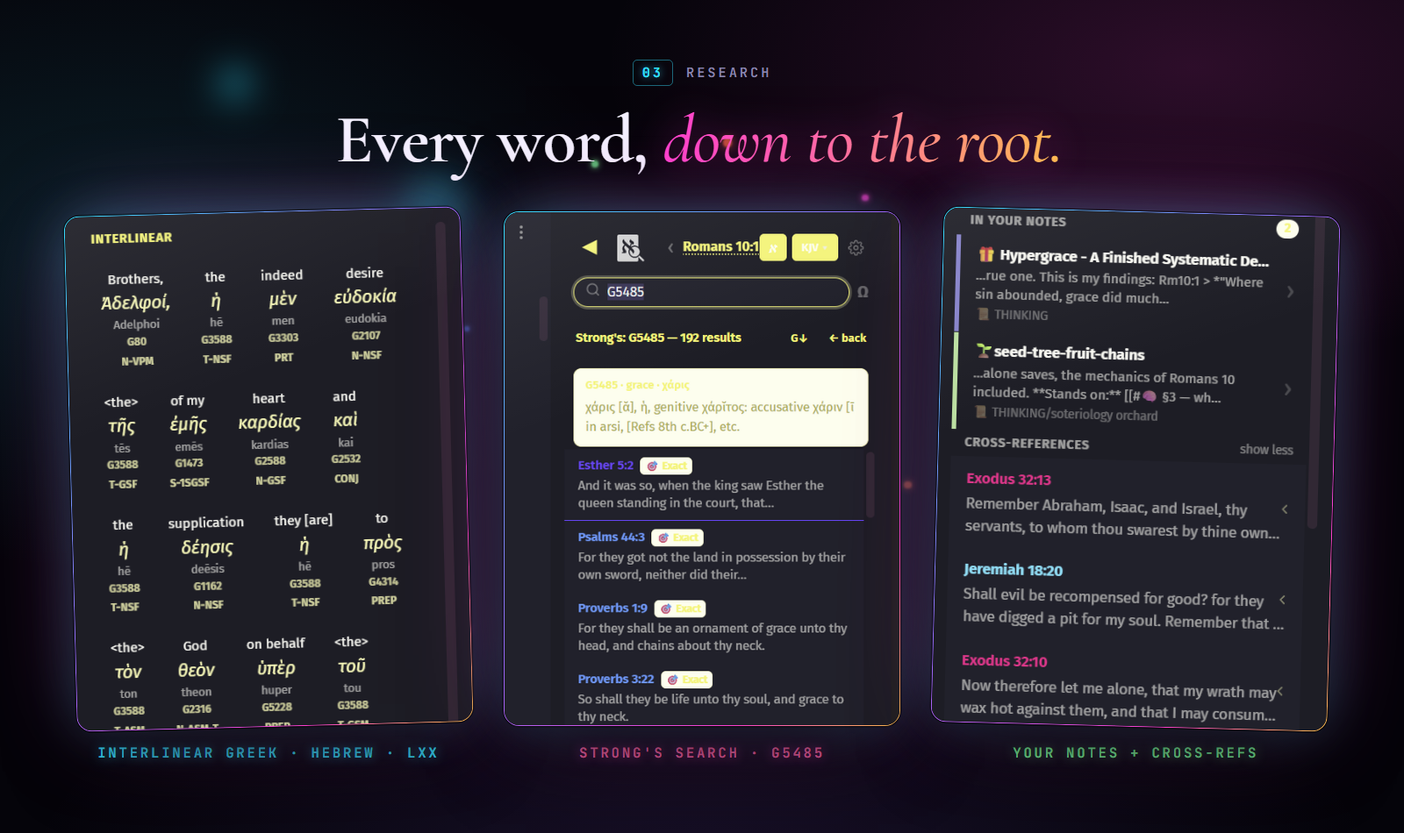
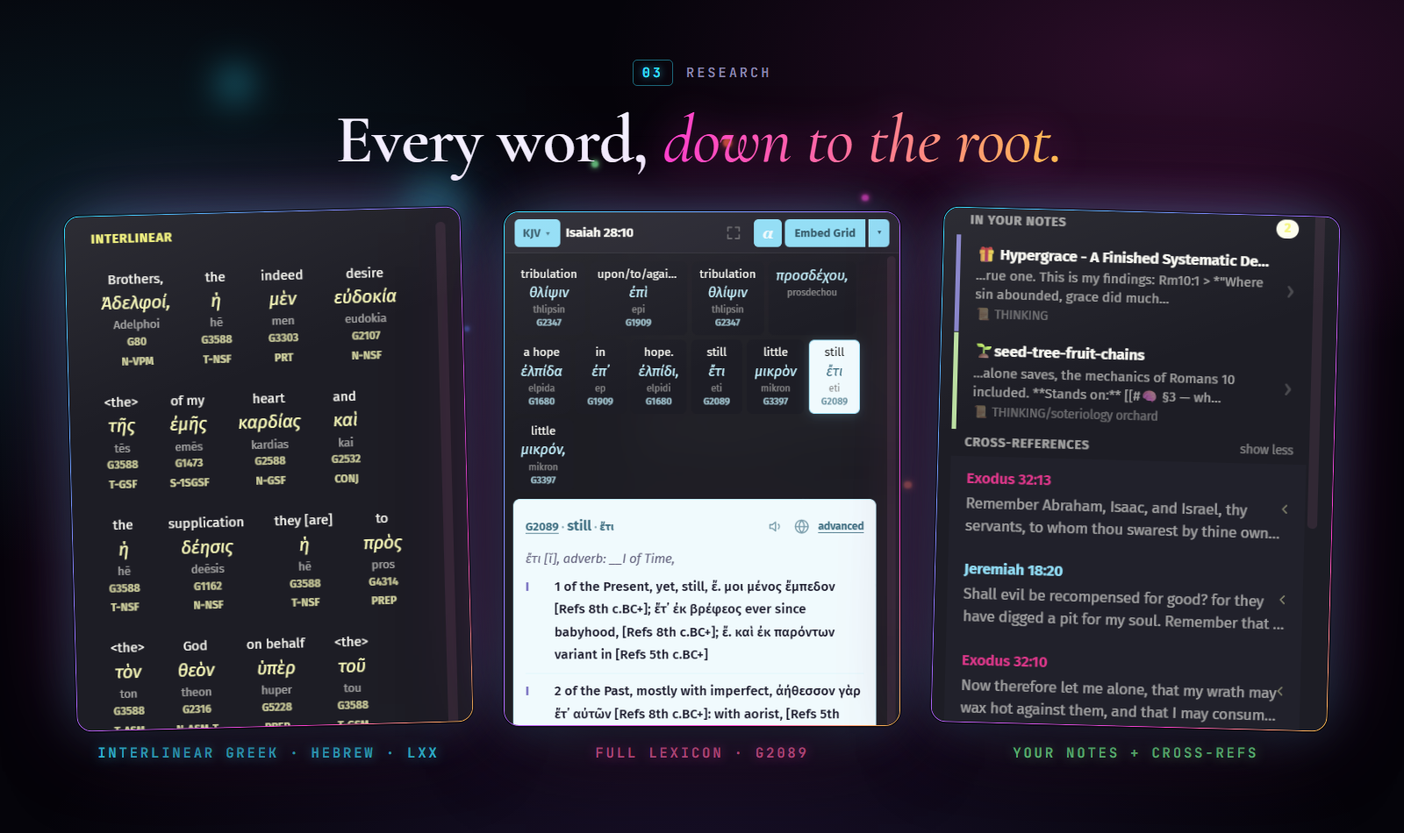
Readable simple Strong's definitions; new interlinear screenshots; walkthrough video
- Simple definitions in the tooltip drawer and reading panel use dark text on the pale card (they were unreadable on Windows dark theme), and clicking a word no longer wipes the morphology box.
- Site and README research plate use the real advanced-lexicon screenshots (John 6:47, Isaiah 28:10) in place of the old pre-contrast Strong's search shot.
- Install section links the ScriptureScribe walkthrough video.

Changed region(s): [[0.3438, 0.2442, 0.6562, 0.9158]]

diff --git a/main.js b/main.js
@@ -29,7 +29,7 @@ var It=Object.defineProperty;var Gs=Object.getOwnPropertyDescriptor;var Fs=Objec
     border-radius:6px; box-shadow:0 4px 18px rgba(0,0,0,0.22);
     font-size:11px; line-height:1.65; color:var(--text-normal);
     font-style:italic;
-  `,document.body.appendChild(e),X1=e;let s=i.getBoundingClientRect(),n=s.left,r=s.bottom+6;n+268>window.innerWidth-8&&(n=window.innerWidth-276),r+76>window.innerHeight-8&&(r=s.top-82),e.style.left=`${Math.max(8,n)}px`,e.style.top=`${Math.max(8,r)}px`}function Xs(){X1?.remove(),X1=null}function O0(i){return i.includes("__")||/^[\u0370-\u03FF\u1F00-\u1FFF]/.test(i.trim())}var Zs=/\b[123]?\s?[A-Za-z]{2,8}\.?\s*\d{1,3}:\d{1,3}(?:-\d{1,3})?(?:[,;]\s*(?:\d+:)?\d+(?:-\d+)?)*\b/g,qs=/\([^)]*(?:MM|VGT|LS|Arist|Plat|Thuc|Hdt|Cremer|Lft|Westc|Tr|Syn|Field|Milligan|LAE|NTD|Deiss|Eutherford|Rutherford|Diod|Polyb|Bl)[^)]*\)/gi,P0=/\b(?:absol\.|in late writers|(?:with|before)\s+(?:accusative|genitive|dative|inf\.|dupl\.)[^;,]*|(?:with)\s+(?:εἰς|ἀπό|παρά|πρός|ὅτι|πῶς|τί|ἵνα|ἐν\s+τ)[^;,]*|of (?:persons?|things?)[,;][^;]*|see M[, .][^;]*|see MM[^;]*)\b/gi;function Ks(i){return i.replace(/\(AS\)|\(ML\)|[†*✝]/g,"").replace(/\[in LXX[^\]]*\]/gi,"").replace(/<BR\s*\/?>/gi," ").replace(/<[^>]+>/g,"").replace(/\s{2,}/g," ").trim()}function Us(i){return Ks(i).replace(/SYN\.:.+$/s,"").replace(/Aramaic (?:equivalent|of|for)[^.]*\.?\s*/is,"").replace(/Also (?:means|named|called)[^.]*\.?\s*/is,"").replace(/§[^\n]*/g,"").replace(/__/g,"").replace(Zs,"").replace(qs,"").replace(/\(cf\.[^)]*\)/gi,"").replace(/\(see [^)]*\)/gi,"").replace(/\s*[,;]\s*,/g,",").replace(/\s{2,}/g," ").trim()}function M1(i){let t=G0(i);return t.length?t.join("; "):i.slice(0,100).replace(/<[^>]+>/g,"").trim()}function z0(i,t){i.innerHTML="";let e=G0(t);if(!e.length){let s=document.createElement("span");s.textContent=t.slice(0,120).replace(/<[^>]+>/g,"").trim(),s.style.cssText=`font-size:11.5px; color:${e1}; line-height:1.65;`,i.appendChild(s);return}for(let s of e){let n=document.createElement("div");n.style.cssText="display:flex; align-items:baseline; gap:7px; padding:2px 0; line-height:1.65;";let r=document.createElement("span");r.textContent="\u2022",r.style.cssText=`color:${Ot}; font-size:11px; flex-shrink:0; opacity:0.7;`,n.appendChild(r);let o=document.createElement("span");o.textContent=s,o.style.cssText=`font-size:11.5px; color:${e1}; flex:1;`,n.appendChild(o),i.appendChild(n)}}function G0(i){let t=Us(i);return O0(i)?Ys(t):Qs(t)}function Ys(i){let t=i.replace(P0,""),e=/\s+(?:[IVX]+\.|[0-9]+\.)\s/.test(t),s=[];if(e){let n=t.split(/\s+(?=[IVX]+\.\s|[0-9]+\.\s)/);for(let r of n){if(!r.trim())continue;let o=r.replace(/^[IVX]+\.\s*|^[0-9]+\.\s*/,"").replace(/\(a\)\s*|\(b\)\s*|\(c\)\s*/g," ").split(/[;]/)[0].replace(/[,;:\s]+$/,"").trim();if(o.length>5&&o.length<110&&s.push(o),s.length>=4)break}}else{let n=t.split(/:\s*(?:absol\.|with acc|before |with dat|Mid\.)/i)[0].split(/[;]/)[0].replace(/[,;:\s]+$/,"").trim();n.length>3&&s.push(n);let r=t.match(/\bMid\.\b[^:]*:([^;.]+)/i);if(r){let o=r[1].replace(P0,"").replace(/[,;:\s]+$/,"").trim();o.length>5&&o!==n&&s.push("(Middle voice) "+o)}}return s}function Qs(i){let t=[],e=/\b(\d)\)\s+([\s\S]+?)(?=\s+\d\)|$)/g,s;for(e.lastIndex=0;(s=e.exec(i))!==null&&t.length<4;){let n=s[2].replace(/\s+\d[a-z]\d*\)\s+[\s\S]+?(?=\s+\d[a-z]?\d*\)|$)/g,"").replace(/\(\s*(?:Qal|Niphal|Piel|Pual|Hiphil|Hophal|Hithpael|Aphel|P'al|Peal|Ithpeel|Ithpaal)\s*\)/gi,"").replace(/\(fig\.\)|\(spec\.\)/gi,"").split(/;/)[0].trim().replace(/[-–,]\s*$/,"").trim();n.length>2&&t.push(n)}return t.length?t:i.split(/;\s+/).slice(0,4).map(n=>n.trim()).filter(n=>n.length>2&&n.length<100)}var R0=/\b([123]?\s?[A-Za-z]{2,8})\.?\s*(\d{1,3}:\d{1,3}(?:-\d{1,3})?)\b/g,$0=/\b([GH]\d{1,4}[a-z]?)\b/g,A0=/\(\s*(Qal|Niphal|Piel|Pual|Hiphil|Hophal|Hithpael|P'al|Aphel|Peal|Shafel|Pael|Ithpeel|Ithpaal)\s*\)/g,H0=/\b(absol\.|intrans\.|trans\.|pass\.|act\.|cl\.|cf\.|q\.v\.|spec\.|fig\.|al\.)\s*/g,B0=/__([IVX]+\.|[0-9]+\.)\s*/g,I0=/__\(([a-z])\)\s*/g,D0=/\s*SYN\.:[\s\S]+$/,V0=/\[in LXX[^\]]*\]/gi;function P1(i,t,e){i.innerHTML="",O0(t)?en(i,t,e):tn(i,t,e)}function en(i,t,e){let s=t.replace(/\(AS\)|\(ML\)|[†*✝]/g,"").replace(/<BR\s*\/?>/gi,`
+  `,document.body.appendChild(e),X1=e;let s=i.getBoundingClientRect(),n=s.left,r=s.bottom+6;n+268>window.innerWidth-8&&(n=window.innerWidth-276),r+76>window.innerHeight-8&&(r=s.top-82),e.style.left=`${Math.max(8,n)}px`,e.style.top=`${Math.max(8,r)}px`}function Xs(){X1?.remove(),X1=null}function O0(i){return i.includes("__")||/^[\u0370-\u03FF\u1F00-\u1FFF]/.test(i.trim())}var Zs=/\b[123]?\s?[A-Za-z]{2,8}\.?\s*\d{1,3}:\d{1,3}(?:-\d{1,3})?(?:[,;]\s*(?:\d+:)?\d+(?:-\d+)?)*\b/g,qs=/\([^)]*(?:MM|VGT|LS|Arist|Plat|Thuc|Hdt|Cremer|Lft|Westc|Tr|Syn|Field|Milligan|LAE|NTD|Deiss|Eutherford|Rutherford|Diod|Polyb|Bl)[^)]*\)/gi,P0=/\b(?:absol\.|in late writers|(?:with|before)\s+(?:accusative|genitive|dative|inf\.|dupl\.)[^;,]*|(?:with)\s+(?:εἰς|ἀπό|παρά|πρός|ὅτι|πῶς|τί|ἵνα|ἐν\s+τ)[^;,]*|of (?:persons?|things?)[,;][^;]*|see M[, .][^;]*|see MM[^;]*)\b/gi;function Ks(i){return i.replace(/\(AS\)|\(ML\)|[†*✝]/g,"").replace(/\[in LXX[^\]]*\]/gi,"").replace(/<BR\s*\/?>/gi," ").replace(/<[^>]+>/g,"").replace(/\s{2,}/g," ").trim()}function Us(i){return Ks(i).replace(/SYN\.:.+$/s,"").replace(/Aramaic (?:equivalent|of|for)[^.]*\.?\s*/is,"").replace(/Also (?:means|named|called)[^.]*\.?\s*/is,"").replace(/§[^\n]*/g,"").replace(/__/g,"").replace(Zs,"").replace(qs,"").replace(/\(cf\.[^)]*\)/gi,"").replace(/\(see [^)]*\)/gi,"").replace(/\s*[,;]\s*,/g,",").replace(/\s{2,}/g," ").trim()}function z0(i){let t=G0(i);return t.length?t.join("; "):i.slice(0,100).replace(/<[^>]+>/g,"").trim()}function M1(i,t){i.innerHTML="";let e=G0(t);if(!e.length){let s=document.createElement("span");s.textContent=t.slice(0,120).replace(/<[^>]+>/g,"").trim(),s.style.cssText=`font-size:11.5px; color:${e1}; line-height:1.65;`,i.appendChild(s);return}for(let s of e){let n=document.createElement("div");n.style.cssText="display:flex; align-items:baseline; gap:7px; padding:2px 0; line-height:1.65;";let r=document.createElement("span");r.textContent="\u2022",r.style.cssText=`color:${Ot}; font-size:11px; flex-shrink:0; opacity:0.7;`,n.appendChild(r);let o=document.createElement("span");o.textContent=s,o.style.cssText=`font-size:11.5px; color:${e1}; flex:1;`,n.appendChild(o),i.appendChild(n)}}function G0(i){let t=Us(i);return O0(i)?Ys(t):Qs(t)}function Ys(i){let t=i.replace(P0,""),e=/\s+(?:[IVX]+\.|[0-9]+\.)\s/.test(t),s=[];if(e){let n=t.split(/\s+(?=[IVX]+\.\s|[0-9]+\.\s)/);for(let r of n){if(!r.trim())continue;let o=r.replace(/^[IVX]+\.\s*|^[0-9]+\.\s*/,"").replace(/\(a\)\s*|\(b\)\s*|\(c\)\s*/g," ").split(/[;]/)[0].replace(/[,;:\s]+$/,"").trim();if(o.length>5&&o.length<110&&s.push(o),s.length>=4)break}}else{let n=t.split(/:\s*(?:absol\.|with acc|before |with dat|Mid\.)/i)[0].split(/[;]/)[0].replace(/[,;:\s]+$/,"").trim();n.length>3&&s.push(n);let r=t.match(/\bMid\.\b[^:]*:([^;.]+)/i);if(r){let o=r[1].replace(P0,"").replace(/[,;:\s]+$/,"").trim();o.length>5&&o!==n&&s.push("(Middle voice) "+o)}}return s}function Qs(i){let t=[],e=/\b(\d)\)\s+([\s\S]+?)(?=\s+\d\)|$)/g,s;for(e.lastIndex=0;(s=e.exec(i))!==null&&t.length<4;){let n=s[2].replace(/\s+\d[a-z]\d*\)\s+[\s\S]+?(?=\s+\d[a-z]?\d*\)|$)/g,"").replace(/\(\s*(?:Qal|Niphal|Piel|Pual|Hiphil|Hophal|Hithpael|Aphel|P'al|Peal|Ithpeel|Ithpaal)\s*\)/gi,"").replace(/\(fig\.\)|\(spec\.\)/gi,"").split(/;/)[0].trim().replace(/[-–,]\s*$/,"").trim();n.length>2&&t.push(n)}return t.length?t:i.split(/;\s+/).slice(0,4).map(n=>n.trim()).filter(n=>n.length>2&&n.length<100)}var R0=/\b([123]?\s?[A-Za-z]{2,8})\.?\s*(\d{1,3}:\d{1,3}(?:-\d{1,3})?)\b/g,$0=/\b([GH]\d{1,4}[a-z]?)\b/g,A0=/\(\s*(Qal|Niphal|Piel|Pual|Hiphil|Hophal|Hithpael|P'al|Aphel|Peal|Shafel|Pael|Ithpeel|Ithpaal)\s*\)/g,H0=/\b(absol\.|intrans\.|trans\.|pass\.|act\.|cl\.|cf\.|q\.v\.|spec\.|fig\.|al\.)\s*/g,B0=/__([IVX]+\.|[0-9]+\.)\s*/g,I0=/__\(([a-z])\)\s*/g,D0=/\s*SYN\.:[\s\S]+$/,V0=/\[in LXX[^\]]*\]/gi;function P1(i,t,e){i.innerHTML="",O0(t)?en(i,t,e):tn(i,t,e)}function en(i,t,e){let s=t.replace(/\(AS\)|\(ML\)|[†*✝]/g,"").replace(/<BR\s*\/?>/gi,`
 `).replace(/<[^>]+>/g,"").trim(),n=V0.exec(s);if(n){let c=document.createElement("div");c.textContent=n[0].replace(/^\[|\]$/g,"").trim(),c.style.cssText=`
       font-size:9.5px; color:${w1}; font-style:italic;
       margin-bottom:6px; opacity:0.8; line-height:1.4;
@@ -255,11 +255,11 @@ ${f}`,g)}else{let h=i.getLine(l.line),u=h.slice(0,l.ch).trim().length===0,L=h.sl
               text-decoration:underline; text-underline-offset:2px;
             ">simple</button>
           </div>
-          <div class="ss-sbdy-simple" style="min-height:8px;"></div>
+          <div class="ss-sbdy-simple" style="min-height:8px; color:#1a1a2e;"></div>
           <div class="ss-sbdy-advanced" style="display:none;"></div>
         </div>
       </div>
-    `,t}async show(t,e,s,n,r){let o=t;if(t=_t(t),this.cancelHide(),this.currentRef=t,this._lastEditor=n,this.activeTooltipCard=null,B1(),r!=null&&!isNaN(r)?ft(r):ft(n.posToOffset(n.getCursor())),this.updatePaletteForRef(t),this.applyPaletteToDOM(),this.cardModeOn){this.el.style.display="none",await this.showAsCard(t);return}this.resetToVersePanel(),this.updateIntBtn(),this.closeDropdowns(),this.position(e,s),this.el.style.display="flex";let a=this.q(".ss-ref-lbl"),l=this.q(".ss-text"),c=this.q(".ss-src"),d=this.q(".ss-offline"),h=this.q(".ss-ver-label");a.textContent=T(t),l.textContent="Loading\u2026",c.textContent="",d.style.display="none";let u=await U(t,this.settings);this.currentRef===t&&(Ne(l,u.formattedText??u.text),h.textContent=u.version,c.textContent=Ae(u),this.wireVersion(t,n,h),this.wireEmbed(o,n),this.wireInterlinear(t),await mt(),this.currentRef===t&&(this.renderCrossRefChips(t,n),this.interlinearState!=="off"&&this.openInterlinear(t)))}async showAsCard(t,e=!1){let s=_t(t),n=await U(s,this.settings);this.currentRef!==t||!this.card||await this.card.show({key:T(s),reference:T(s),text:n.text,formattedText:n.formattedText,lazyContext:this.cardContext?()=>this.cardContext(t,n.text,this._lastEditor):void 0,version:n.version,book:t.book,testament:de.has(t.book)?"ot":"nt",palette:{base:this.P,light:this.PL,mid:this.PM,dark:this.PD}},e)}getRecordingEditor(){return this._lastEditor}async showRecordingRef(t,e){this.cancelHide(),this.currentRef=t,this._lastEditor=e,await this.showAsCard(t,!0)}async setCardMode(t,e=!1){let s=this.currentRef;this.settings.display.cardMode=t,await this.saveSettings(),t?this.card?.warm():this.card?.hide(!0),e&&(this.hide(),t&&s&&(this.currentRef=s,await this.showAsCard(s),this.scheduleHide(2600)))}async showStrongs(t,e,s,n,r){this.cancelHide(),this.currentRef=null,this._lastEditor=n,this.activeTooltipCard=null,B1(),ft(n.posToOffset(n.getCursor()));let o=/^[Gg]/.test(t),a=o?"#5c4dc4":"#2a7a4a",l=o?"#eeedfe":"#ecf6ef",c=o?"#afa9ec":"#9ecaa7",d=o?"#3c3489":"#1b5e20";this.PX=d,this.PV="#ffffff",this.P=a,this.PL=l,this.PM=c,this.PD=d,E1(a,l,c,d,d),this.applyPaletteToDOM(),this.resetToVersePanel(),this.q(".ss-ref-lbl").textContent=t,this.q(".ss-text").textContent="Finding definition...",this.q(".ss-int-panel").style.display="flex",this.q(".ss-verse-panel").style.display="none",this.q(".ss-grid").style.display="none",this.q(".ss-int-btn").style.display="none",this.position(e,s),this.el.style.display="flex";let h=await d1(t);if(this.el.style.display==="none")return;let u=this.q(".ss-sdef");if(u.style.display="block",u.innerHTML="",h){let L={onStrongsNum:E=>this.showStrongs(E,e,s,n),onVerseRef:E=>{let b=$(E);b.length&&this.show(b[0],e,s,n)},getVerseText:E=>Me(E)},p=u.createDiv({cls:"ss-sdef-hdr"});p.style.cssText="display:flex; align-items:center; gap:4px; margin-bottom:6px;";let f=p.createDiv({cls:"ss-shdr",text:`${h.number} \xB7 ${h.transliteration} \xB7 ${h.phonetic}`});f.style.cssText=`flex:1; min-width:0; font-size:10px; color:${a}; font-weight:700;`,p.appendChild(S1(h.number,h.original,h.transliteration)),p.appendChild(T1(h.number));let g=p.createEl("button",{cls:"ss-def-toggle",text:ae()?"technical":"simple"});g.style.cssText=`background:none; border:none; cursor:pointer; outline:none; box-shadow:none; font-size:9px; font-weight:700; color:${a}; padding:0; line-height:1; flex-shrink:0; text-decoration:underline; text-underline-offset:2px;`,g.onclick=()=>{this.toggleDefMode(),this.showStrongs(t,e,s,n)};let m=u.createDiv({cls:"ss-sbdy-simple"});m.textContent=M1(h.definition);let C=u.createDiv({cls:"ss-sbdy-advanced"});if(C.style.display=ae()?"block":"none",P1(C,h.definition,L),m.style.display=ae()?"none":"block",r&&this.settings.morphology.enabled){let E=c1(r);if(E){let b=u.createDiv({cls:"ss-morph-wrap"});b.style.cssText=`margin:10px 0; padding:10px; background:rgba(255,255,255,.6); border-radius:6px; border:1px solid ${this.PM}66; position:relative; overflow:hidden;`;let P=b.createDiv({text:E.techLine});P.style.cssText=`font-size:10px; font-weight:700; color:${this.PX}; margin-bottom:4px; font-variant:all-small-caps;`;let v=b.createDiv({text:E.plainLine});if(v.style.cssText="font-size:11px; color:#2a2838; line-height:1.4; font-style:italic;",E.note&&this.settings.morphology.showTeachingNotes){let x=b.createDiv();x.style.cssText=`margin-top:8px; padding-top:8px; border-top:1px dashed ${this.PM}44; font-size:10.5px; color:#3d3a4f; line-height:1.4;`,x.innerHTML=`<span style="color:${this.PX}; font-weight:700; margin-right:4px;">\u{1F4A1}</span> ${E.note}`}}}this.q(".ss-text").style.display="none"}else this.q(".ss-text").textContent="Could not find a definition for this record."}position(t,e){let r=window.innerWidth,o=window.innerHeight;if(r<600){let d=Math.min(340,r-20);this.el.style.width=`${d}px`,this.el.style.left=`${Math.round((r-d)/2)}px`,this.el.style.top=`${Math.round(o*.18)}px`,this.el.style.bottom="auto",this.el.style.maxHeight=`${o-Math.round(o*.18)-10}px`;return}this.el.style.width=`${340}px`;let a=t+14;a+340>r-10&&(a=t-340-14),a=Math.max(10,Math.min(a,r-340-10));let l=e+22,c=o-l-10;c<320&&e>340&&(l=e-330,c=320),l=Math.max(10,l),c=o-l-10,this.el.style.left=`${a}px`,this.el.style.top=`${l}px`,this.el.style.bottom="auto",this.el.style.maxHeight=`${c}px`}wireInterlinear(t){let e=this.q(".ss-int-btn");e.onclick=s=>{s.stopPropagation(),this.isOT?this.interlinearState==="off"?this.interlinearState="MT":this.interlinearState==="MT"?this.interlinearState="LXX":this.interlinearState="off":this.interlinearState==="off"?this.interlinearState="LXX":this.interlinearState="off",this.interlinearState==="off"?(B1(),this.resetToVersePanel(),this.updateIntBtn(),this.syncEmbedBtnLabel()):(this.updateIntBtn(),this.syncEmbedBtnLabel(),this.openInterlinear(t))}}updateIntBtn(){let t=this.q(".ss-int-btn");t&&(this.currentRef&&this.interlinearState==="MT"&&(t.title=`Hebrew address: ${T(st(this.currentRef))}`),this.interlinearState!=="off"?(t.textContent=this.interlinearState==="MT"?"\u05D0":"\u03B1",t.style.background=this.P,t.style.color=this.PL,t.style.borderColor=this.P):(t.textContent=this.isOT?"\u05D0":"\u03B1",t.style.background="transparent",t.style.color=this.P,t.style.borderColor=this.PM))}async openInterlinear(t){let e=this.q(".ss-verse-panel"),s=this.q(".ss-int-panel"),n=this.q(".ss-grid"),r=this.q(".ss-sdef");e.style.display="none",s.style.display="flex",r.style.display="none",n.innerHTML='<div style="padding:14px;font-size:12px;color:var(--text-muted);width:100%;text-align:center;">Loading\u2026</div>';let o=this.interlinearState==="MT"?"hebrew":"greek",a=this.interlinearState==="LXX"?"LXX":this.settings.primaryTranslation,l=await ce(t,o==="greek"?"greek":"hebrew",a);if(!(this.currentRef!==t||this.interlinearState==="off")){if(n.innerHTML="",!l.length){B1(),n.innerHTML=`<div style="padding:14px;font-size:12px;color:var(--text-muted);width:100%;text-align:center;">
+    `,t}async show(t,e,s,n,r){let o=t;if(t=_t(t),this.cancelHide(),this.currentRef=t,this._lastEditor=n,this.activeTooltipCard=null,B1(),r!=null&&!isNaN(r)?ft(r):ft(n.posToOffset(n.getCursor())),this.updatePaletteForRef(t),this.applyPaletteToDOM(),this.cardModeOn){this.el.style.display="none",await this.showAsCard(t);return}this.resetToVersePanel(),this.updateIntBtn(),this.closeDropdowns(),this.position(e,s),this.el.style.display="flex";let a=this.q(".ss-ref-lbl"),l=this.q(".ss-text"),c=this.q(".ss-src"),d=this.q(".ss-offline"),h=this.q(".ss-ver-label");a.textContent=T(t),l.textContent="Loading\u2026",c.textContent="",d.style.display="none";let u=await U(t,this.settings);this.currentRef===t&&(Ne(l,u.formattedText??u.text),h.textContent=u.version,c.textContent=Ae(u),this.wireVersion(t,n,h),this.wireEmbed(o,n),this.wireInterlinear(t),await mt(),this.currentRef===t&&(this.renderCrossRefChips(t,n),this.interlinearState!=="off"&&this.openInterlinear(t)))}async showAsCard(t,e=!1){let s=_t(t),n=await U(s,this.settings);this.currentRef!==t||!this.card||await this.card.show({key:T(s),reference:T(s),text:n.text,formattedText:n.formattedText,lazyContext:this.cardContext?()=>this.cardContext(t,n.text,this._lastEditor):void 0,version:n.version,book:t.book,testament:de.has(t.book)?"ot":"nt",palette:{base:this.P,light:this.PL,mid:this.PM,dark:this.PD}},e)}getRecordingEditor(){return this._lastEditor}async showRecordingRef(t,e){this.cancelHide(),this.currentRef=t,this._lastEditor=e,await this.showAsCard(t,!0)}async setCardMode(t,e=!1){let s=this.currentRef;this.settings.display.cardMode=t,await this.saveSettings(),t?this.card?.warm():this.card?.hide(!0),e&&(this.hide(),t&&s&&(this.currentRef=s,await this.showAsCard(s),this.scheduleHide(2600)))}async showStrongs(t,e,s,n,r){this.cancelHide(),this.currentRef=null,this._lastEditor=n,this.activeTooltipCard=null,B1(),ft(n.posToOffset(n.getCursor()));let o=/^[Gg]/.test(t),a=o?"#5c4dc4":"#2a7a4a",l=o?"#eeedfe":"#ecf6ef",c=o?"#afa9ec":"#9ecaa7",d=o?"#3c3489":"#1b5e20";this.PX=d,this.PV="#ffffff",this.P=a,this.PL=l,this.PM=c,this.PD=d,E1(a,l,c,d,d),this.applyPaletteToDOM(),this.resetToVersePanel(),this.q(".ss-ref-lbl").textContent=t,this.q(".ss-text").textContent="Finding definition...",this.q(".ss-int-panel").style.display="flex",this.q(".ss-verse-panel").style.display="none",this.q(".ss-grid").style.display="none",this.q(".ss-int-btn").style.display="none",this.position(e,s),this.el.style.display="flex";let h=await d1(t);if(this.el.style.display==="none")return;let u=this.q(".ss-sdef");if(u.style.display="block",u.innerHTML="",h){let L={onStrongsNum:E=>this.showStrongs(E,e,s,n),onVerseRef:E=>{let b=$(E);b.length&&this.show(b[0],e,s,n)},getVerseText:E=>Me(E)},p=u.createDiv({cls:"ss-sdef-hdr"});p.style.cssText="display:flex; align-items:center; gap:4px; margin-bottom:6px;";let f=p.createDiv({cls:"ss-shdr",text:`${h.number} \xB7 ${h.transliteration} \xB7 ${h.phonetic}`});f.style.cssText=`flex:1; min-width:0; font-size:10px; color:${a}; font-weight:700;`,p.appendChild(S1(h.number,h.original,h.transliteration)),p.appendChild(T1(h.number));let g=p.createEl("button",{cls:"ss-def-toggle",text:ae()?"technical":"simple"});g.style.cssText=`background:none; border:none; cursor:pointer; outline:none; box-shadow:none; font-size:9px; font-weight:700; color:${a}; padding:0; line-height:1; flex-shrink:0; text-decoration:underline; text-underline-offset:2px;`,g.onclick=()=>{this.toggleDefMode(),this.showStrongs(t,e,s,n)};let m=u.createDiv({cls:"ss-sbdy-simple"});M1(m,h.definition);let C=u.createDiv({cls:"ss-sbdy-advanced"});if(C.style.display=ae()?"block":"none",P1(C,h.definition,L),m.style.display=ae()?"none":"block",r&&this.settings.morphology.enabled){let E=c1(r);if(E){let b=u.createDiv({cls:"ss-morph-wrap"});b.style.cssText=`margin:10px 0; padding:10px; background:rgba(255,255,255,.6); border-radius:6px; border:1px solid ${this.PM}66; position:relative; overflow:hidden;`;let P=b.createDiv({text:E.techLine});P.style.cssText=`font-size:10px; font-weight:700; color:${this.PX}; margin-bottom:4px; font-variant:all-small-caps;`;let v=b.createDiv({text:E.plainLine});if(v.style.cssText="font-size:11px; color:#2a2838; line-height:1.4; font-style:italic;",E.note&&this.settings.morphology.showTeachingNotes){let x=b.createDiv();x.style.cssText=`margin-top:8px; padding-top:8px; border-top:1px dashed ${this.PM}44; font-size:10.5px; color:#3d3a4f; line-height:1.4;`,x.innerHTML=`<span style="color:${this.PX}; font-weight:700; margin-right:4px;">\u{1F4A1}</span> ${E.note}`}}}this.q(".ss-text").style.display="none"}else this.q(".ss-text").textContent="Could not find a definition for this record."}position(t,e){let r=window.innerWidth,o=window.innerHeight;if(r<600){let d=Math.min(340,r-20);this.el.style.width=`${d}px`,this.el.style.left=`${Math.round((r-d)/2)}px`,this.el.style.top=`${Math.round(o*.18)}px`,this.el.style.bottom="auto",this.el.style.maxHeight=`${o-Math.round(o*.18)-10}px`;return}this.el.style.width=`${340}px`;let a=t+14;a+340>r-10&&(a=t-340-14),a=Math.max(10,Math.min(a,r-340-10));let l=e+22,c=o-l-10;c<320&&e>340&&(l=e-330,c=320),l=Math.max(10,l),c=o-l-10,this.el.style.left=`${a}px`,this.el.style.top=`${l}px`,this.el.style.bottom="auto",this.el.style.maxHeight=`${c}px`}wireInterlinear(t){let e=this.q(".ss-int-btn");e.onclick=s=>{s.stopPropagation(),this.isOT?this.interlinearState==="off"?this.interlinearState="MT":this.interlinearState==="MT"?this.interlinearState="LXX":this.interlinearState="off":this.interlinearState==="off"?this.interlinearState="LXX":this.interlinearState="off",this.interlinearState==="off"?(B1(),this.resetToVersePanel(),this.updateIntBtn(),this.syncEmbedBtnLabel()):(this.updateIntBtn(),this.syncEmbedBtnLabel(),this.openInterlinear(t))}}updateIntBtn(){let t=this.q(".ss-int-btn");t&&(this.currentRef&&this.interlinearState==="MT"&&(t.title=`Hebrew address: ${T(st(this.currentRef))}`),this.interlinearState!=="off"?(t.textContent=this.interlinearState==="MT"?"\u05D0":"\u03B1",t.style.background=this.P,t.style.color=this.PL,t.style.borderColor=this.P):(t.textContent=this.isOT?"\u05D0":"\u03B1",t.style.background="transparent",t.style.color=this.P,t.style.borderColor=this.PM))}async openInterlinear(t){let e=this.q(".ss-verse-panel"),s=this.q(".ss-int-panel"),n=this.q(".ss-grid"),r=this.q(".ss-sdef");e.style.display="none",s.style.display="flex",r.style.display="none",n.innerHTML='<div style="padding:14px;font-size:12px;color:var(--text-muted);width:100%;text-align:center;">Loading\u2026</div>';let o=this.interlinearState==="MT"?"hebrew":"greek",a=this.interlinearState==="LXX"?"LXX":this.settings.primaryTranslation,l=await ce(t,o==="greek"?"greek":"hebrew",a);if(!(this.currentRef!==t||this.interlinearState==="off")){if(n.innerHTML="",!l.length){B1(),n.innerHTML=`<div style="padding:14px;font-size:12px;color:var(--text-muted);width:100%;text-align:center;">
         No interlinear data for this verse.<br>
         <span style="font-size:10px;opacity:.7;">Requires internet connection.</span>
       </div>`;return}A5(T(t),l);for(let c of l){if(!c.original||c.original==="\u2014")continue;let d=this.buildTooltipCard(c,r);n.appendChild(d)}}}buildTooltipCard(t,e){let s=t.language==="hebrew",n=document.createElement("div");n.style.cssText=`
@@ -294,7 +294,7 @@ ${f}`,g)}else{let h=i.getLine(l.line),u=h.slice(0,l.ch).trim().length===0,L=h.sl
             40% { transform:scale(0.95); }
             100%{ transform:scale(1); }
           }
-        `,document.head.appendChild(l)}if(this.activeTooltipCard===n&&e.style.display!=="none"){this.activeTooltipCard=null,n.style.animation="none",n.offsetWidth,n.style.animation="ss-tc-deselect 0.24s cubic-bezier(0.34,1.56,0.64,1) forwards",this.resetTooltipCard(n),e.style.display="none";return}if(this.activeTooltipCard&&this.activeTooltipCard!==n){let l=this.activeTooltipCard;l.style.animation="none",l.offsetWidth,l.style.animation="ss-tc-deselect 0.22s cubic-bezier(0.34,1.56,0.64,1) forwards",this.resetTooltipCard(l)}this.activeTooltipCard=n,n.style.animation="none",n.offsetWidth,n.style.animation="ss-tc-select 0.38s cubic-bezier(0.34,1.56,0.64,1) forwards",this.selectTooltipCard(n),this.showStrongsPopup(t.strongsNum,t.morph)}}),n}resetTooltipCard(t){t.style.borderColor="var(--background-modifier-border)",t.style.background="var(--background-secondary)",t.style.boxShadow="none",t.querySelector(".ss-tc-eng")?.style.setProperty("color","var(--text-normal)"),t.querySelector(".ss-tc-orig")?.style.setProperty("color",this.PM),t.querySelector(".ss-tc-translit")?.style.setProperty("color","var(--text-muted)"),t.querySelector(".ss-tc-snum")?.style.setProperty("color",this.PM)}selectTooltipCard(t){t.style.borderColor=this.P,t.style.background=this.PL,t.style.boxShadow=`0 2px 10px ${this.P}33`,t.querySelector(".ss-tc-eng")?.style.setProperty("color","#1a1a1a"),t.querySelector(".ss-tc-orig")?.style.setProperty("color",this.PX),t.querySelector(".ss-tc-translit")?.style.setProperty("color","#666"),t.querySelector(".ss-tc-snum")?.style.setProperty("color",this.PX),t.querySelector(".ss-tc-morph")?.style.setProperty("color",this.PX)}async showStrongsPopup(t,e){let s=this.q(".ss-sdef"),n=this.q(".ss-shdr"),r=this.q(".ss-speaker-wrap"),o=this.q(".ss-sbdy-simple"),a=this.q(".ss-sbdy-advanced"),l=this.q(".ss-def-toggle");s.style.display="block",n.textContent=`${t} \xB7 loading\u2026`,o.innerHTML="",a.innerHTML="",r&&(r.innerHTML="");let c={onVerseRef:h=>{let u=h.replace(/^([123]?[A-Za-z]+)\./,"$1 "),L=$(u);if(L.length){let p=this.app.workspace.getLeavesOfType("scripture-scribe-panel");if(p.length>0){let f=p[0].view;f.pendingStrongsHighlight=t,f.setRef(L[0],this._lastEditor),this.app.workspace.revealLeaf(p[0]),this.hide()}else{let f=this.el.getBoundingClientRect();this.show(L[0],f.left,f.top,this._lastEditor)}}},onStrongsNum:h=>{let u=this.app.workspace.getLeavesOfType("scripture-scribe-panel");if(u.length>0){let L=u[0].view;L.searchInput.value=h,L.runSearch(),this.app.workspace.revealLeaf(u[0]),this.hide()}else this.showStrongsPopup(h)},getVerseText:h=>{let u=h.replace(/^([123]?[A-Za-z]+)\./,"$1 "),L=$(u);if(!L.length)return null;let p=`${L[0].book} ${L[0].chapter}:${L[0].verseStart}`;return Me(p)||null}},d=await d1(t);if(d){let h=d.phonetic?` /${d.phonetic}/`:"";if(n.innerHTML=`<span class="ss-snum-link" style="cursor:pointer;text-decoration:underline;text-underline-offset:2px;" title="Search ${d.number}">${d.number}</span> <span style="opacity:0.6;">\xB7</span> <span style="font-size:12px;">${d.original}</span> <span style="opacity:0.6;">\xB7</span> ${d.transliteration+h}`,e&&this.settings.morphology.enabled){let L=c1(e);if(L){let p=o.createDiv({cls:"ss-morph-wrap"});p.style.cssText=`margin:10px 0; padding:10px; background:rgba(255,255,255,.6); border-radius:6px; border:1px solid ${this.PM}66; position:relative; overflow:hidden;`;let f=p.createDiv({text:L.techLine});f.style.cssText=`font-size:10px; font-weight:700; color:${this.PX}; margin-bottom:4px; font-variant:all-small-caps;`;let g=p.createDiv({text:L.plainLine});if(g.style.cssText="font-size:11px; color:#2a2838; line-height:1.4; font-style:italic;",L.note&&this.settings.morphology.showTeachingNotes){let m=p.createDiv();m.style.cssText=`margin-top:8px; padding-top:8px; border-top:1px dashed ${this.PM}44; font-size:10.5px; color:#3d3a4f; line-height:1.4;`,m.innerHTML=`<span style="color:${this.PX}; font-weight:700; margin-right:4px;">\u{1F4A1}</span> ${L.note}`}}}let u=n.querySelector(".ss-snum-link");u&&u.addEventListener("click",L=>{L.stopPropagation();let p=this.app.workspace.getLeavesOfType("scripture-scribe-panel");if(p.length>0){let f=p[0].view;f.searchInput.value=d.number,f.runSearch(),this.app.workspace.revealLeaf(p[0]),this.hide()}}),r&&(r.appendChild(S1(d.number,d.original,d.transliteration)),r.appendChild(T1(d.number))),o.textContent=M1(d.definition),a.innerHTML="",P1(a,d.definition,c)}else n.textContent=t,o.textContent="Definition unavailable \u2014 check internet connection.";this.applyDefMode(o,a,l),l.onclick=h=>{h.stopPropagation(),this.toggleDefMode(),this.applyDefMode(o,a,l)}}toggleDefMode(){this.settings.morphology.uiMode=q1()?"advanced":"simple",this.saveSettings()}applyDefMode(t,e,s){ae()?(t.style.display="none",e.style.display="block",s.textContent="advanced"):(t.style.display="block",e.style.display="none",s.textContent="simple")}resetToVersePanel(){let t=this.q(".ss-verse-panel"),e=this.q(".ss-int-panel");t&&(t.style.display="flex"),e&&(e.style.display="none")}renderCrossRefChips(t,e){let s=this.q(".ss-xref");if(s.innerHTML="",s.style.display="none",!Ct())return;let n=u1(t);if(!n.length)return;let r=n.slice(0,3);s.style.display="flex";for(let o of r){let a=document.createElement("span");a.textContent=o;let l=ke(o);a.style.cssText=`
+        `,document.head.appendChild(l)}if(this.activeTooltipCard===n&&e.style.display!=="none"){this.activeTooltipCard=null,n.style.animation="none",n.offsetWidth,n.style.animation="ss-tc-deselect 0.24s cubic-bezier(0.34,1.56,0.64,1) forwards",this.resetTooltipCard(n),e.style.display="none";return}if(this.activeTooltipCard&&this.activeTooltipCard!==n){let l=this.activeTooltipCard;l.style.animation="none",l.offsetWidth,l.style.animation="ss-tc-deselect 0.22s cubic-bezier(0.34,1.56,0.64,1) forwards",this.resetTooltipCard(l)}this.activeTooltipCard=n,n.style.animation="none",n.offsetWidth,n.style.animation="ss-tc-select 0.38s cubic-bezier(0.34,1.56,0.64,1) forwards",this.selectTooltipCard(n),this.showStrongsPopup(t.strongsNum,t.morph)}}),n}resetTooltipCard(t){t.style.borderColor="var(--background-modifier-border)",t.style.background="var(--background-secondary)",t.style.boxShadow="none",t.querySelector(".ss-tc-eng")?.style.setProperty("color","var(--text-normal)"),t.querySelector(".ss-tc-orig")?.style.setProperty("color",this.PM),t.querySelector(".ss-tc-translit")?.style.setProperty("color","var(--text-muted)"),t.querySelector(".ss-tc-snum")?.style.setProperty("color",this.PM)}selectTooltipCard(t){t.style.borderColor=this.P,t.style.background=this.PL,t.style.boxShadow=`0 2px 10px ${this.P}33`,t.querySelector(".ss-tc-eng")?.style.setProperty("color","#1a1a1a"),t.querySelector(".ss-tc-orig")?.style.setProperty("color",this.PX),t.querySelector(".ss-tc-translit")?.style.setProperty("color","#666"),t.querySelector(".ss-tc-snum")?.style.setProperty("color",this.PX),t.querySelector(".ss-tc-morph")?.style.setProperty("color",this.PX)}async showStrongsPopup(t,e){let s=this.q(".ss-sdef"),n=this.q(".ss-shdr"),r=this.q(".ss-speaker-wrap"),o=this.q(".ss-sbdy-simple"),a=this.q(".ss-sbdy-advanced"),l=this.q(".ss-def-toggle");s.style.display="block",n.textContent=`${t} \xB7 loading\u2026`,o.innerHTML="",a.innerHTML="",r&&(r.innerHTML="");let c={onVerseRef:h=>{let u=h.replace(/^([123]?[A-Za-z]+)\./,"$1 "),L=$(u);if(L.length){let p=this.app.workspace.getLeavesOfType("scripture-scribe-panel");if(p.length>0){let f=p[0].view;f.pendingStrongsHighlight=t,f.setRef(L[0],this._lastEditor),this.app.workspace.revealLeaf(p[0]),this.hide()}else{let f=this.el.getBoundingClientRect();this.show(L[0],f.left,f.top,this._lastEditor)}}},onStrongsNum:h=>{let u=this.app.workspace.getLeavesOfType("scripture-scribe-panel");if(u.length>0){let L=u[0].view;L.searchInput.value=h,L.runSearch(),this.app.workspace.revealLeaf(u[0]),this.hide()}else this.showStrongsPopup(h)},getVerseText:h=>{let u=h.replace(/^([123]?[A-Za-z]+)\./,"$1 "),L=$(u);if(!L.length)return null;let p=`${L[0].book} ${L[0].chapter}:${L[0].verseStart}`;return Me(p)||null}},d=await d1(t);if(d){let h=d.phonetic?` /${d.phonetic}/`:"";if(n.innerHTML=`<span class="ss-snum-link" style="cursor:pointer;text-decoration:underline;text-underline-offset:2px;" title="Search ${d.number}">${d.number}</span> <span style="opacity:0.6;">\xB7</span> <span style="font-size:12px;">${d.original}</span> <span style="opacity:0.6;">\xB7</span> ${d.transliteration+h}`,e&&this.settings.morphology.enabled){let L=c1(e);if(L){let p=o.createDiv({cls:"ss-morph-wrap"});p.style.cssText=`margin:10px 0; padding:10px; background:rgba(255,255,255,.6); border-radius:6px; border:1px solid ${this.PM}66; position:relative; overflow:hidden;`;let f=p.createDiv({text:L.techLine});f.style.cssText=`font-size:10px; font-weight:700; color:${this.PX}; margin-bottom:4px; font-variant:all-small-caps;`;let g=p.createDiv({text:L.plainLine});if(g.style.cssText="font-size:11px; color:#2a2838; line-height:1.4; font-style:italic;",L.note&&this.settings.morphology.showTeachingNotes){let m=p.createDiv();m.style.cssText=`margin-top:8px; padding-top:8px; border-top:1px dashed ${this.PM}44; font-size:10.5px; color:#3d3a4f; line-height:1.4;`,m.innerHTML=`<span style="color:${this.PX}; font-weight:700; margin-right:4px;">\u{1F4A1}</span> ${L.note}`}}}let u=n.querySelector(".ss-snum-link");u&&u.addEventListener("click",L=>{L.stopPropagation();let p=this.app.workspace.getLeavesOfType("scripture-scribe-panel");if(p.length>0){let f=p[0].view;f.searchInput.value=d.number,f.runSearch(),this.app.workspace.revealLeaf(p[0]),this.hide()}}),r&&(r.appendChild(S1(d.number,d.original,d.transliteration)),r.appendChild(T1(d.number))),M1(o.createDiv(),d.definition),a.innerHTML="",P1(a,d.definition,c)}else n.textContent=t,o.createDiv({text:"Definition unavailable."}).style.color="#1a1a2e";this.applyDefMode(o,a,l),l.onclick=h=>{h.stopPropagation(),this.toggleDefMode(),this.applyDefMode(o,a,l)}}toggleDefMode(){this.settings.morphology.uiMode=q1()?"advanced":"simple",this.saveSettings()}applyDefMode(t,e,s){ae()?(t.style.display="none",e.style.display="block",s.textContent="advanced"):(t.style.display="block",e.style.display="none",s.textContent="simple")}resetToVersePanel(){let t=this.q(".ss-verse-panel"),e=this.q(".ss-int-panel");t&&(t.style.display="flex"),e&&(e.style.display="none")}renderCrossRefChips(t,e){let s=this.q(".ss-xref");if(s.innerHTML="",s.style.display="none",!Ct())return;let n=u1(t);if(!n.length)return;let r=n.slice(0,3);s.style.display="flex";for(let o of r){let a=document.createElement("span");a.textContent=o;let l=ke(o);a.style.cssText=`
         display:inline-block; padding:2px 7px;
         font-size:10px; font-weight:700; color:${l};
         background:var(--background-secondary); border:1px solid ${l}44;
@@ -1774,7 +1774,7 @@ ${x.text}`;await navigator.clipboard.writeText(S),this.showToast("Copied to clip
           flex-shrink:0; margin:6px 8px 2px; border-radius:7px;
           padding:8px 10px; background:${this.PL};
           border:1px solid ${this.PM};
-        `;let S=x.createEl("div");S.style.cssText=`font-size:10px;color:${this.P};font-weight:700;margin-bottom:4px;`,S.textContent=`${v} \xB7 loading\u2026`;let M=x.createEl("div");M.style.cssText=`font-size:11px;color:${this.PD};line-height:1.6;`,M.textContent="",d1(v).then(k=>{if(!k){S.textContent=v,M.textContent="Definition unavailable.";return}S.textContent=[k.number,k.original,k.transliteration].filter(Boolean).join(" \xB7 "),M.textContent=M1(k.definition)})}}if(!s.length){let v=this.searchResultsEl.createEl("div");v.style.cssText="flex:1;display:flex;align-items:center;justify-content:center;font-size:12px;color:var(--text-muted);text-align:center;padding:24px;";let x=n==="strongs"?"Make sure the interlinear data files are loaded.":n==="phrase"?"Try fewer words, or check spelling. Paraphrased verses may appear with stemmed matching.":n==="boolean"?"Use AND, OR, NOT between terms. Example: faith AND works, love OR grace.":"Try a different spelling, or search by Strong's number (G25).";v.textContent=`No results for ${d}. ${x}`;return}let C=document.createElement("div");C.style.cssText=`
+        `;let S=x.createEl("div");S.style.cssText=`font-size:10px;color:${this.PX};font-weight:700;margin-bottom:4px;`,S.textContent=`${v} \xB7 loading\u2026`;let M=x.createEl("div");M.style.cssText=`font-size:11px;color:${this.PX};line-height:1.6;`,M.textContent="",d1(v).then(k=>{if(!k){S.textContent=v,M.textContent="Definition unavailable.";return}S.textContent=[k.number,k.original,k.transliteration].filter(Boolean).join(" \xB7 "),M.textContent=z0(k.definition)})}}if(!s.length){let v=this.searchResultsEl.createEl("div");v.style.cssText="flex:1;display:flex;align-items:center;justify-content:center;font-size:12px;color:var(--text-muted);text-align:center;padding:24px;";let x=n==="strongs"?"Make sure the interlinear data files are loaded.":n==="phrase"?"Try fewer words, or check spelling. Paraphrased verses may appear with stemmed matching.":n==="boolean"?"Use AND, OR, NOT between terms. Example: faith AND works, love OR grace.":"Try a different spelling, or search by Strong's number (G25).";v.textContent=`No results for ${d}. ${x}`;return}let C=document.createElement("div");C.style.cssText=`
       display:none; position:fixed; z-index:9999;
       max-width:280px; padding:8px 10px;
       background:var(--background-primary);
@@ -2023,7 +2023,7 @@ ${x.text}`;await navigator.clipboard.writeText(S),this.showToast("Copied to clip
             margin-top:8px; padding-top:8px;
             border-top:1px dashed ${this.P}30;
             font-size:10.5px; color:#3d3a4f; line-height:1.55;
-          `,b.innerHTML=`<span style="color:${this.PX};font-weight:700;margin-right:5px;">\u{1F4A1}</span>${p.note}`}}}let L=await d1(e);if(!L&&!s){r.textContent=e,c.textContent="Definition unavailable.";return}if(L){let p=L.phonetic?` /${L.phonetic}/`:"";r.textContent=[L.number,L.original,L.transliteration+p].filter(Boolean).join(" \xB7 "),a.appendChild(S1(L.number,L.original,L.transliteration)),a.appendChild(T1(L.number)),z0(c,L.definition),d.innerHTML="",P1(d,L.definition,h)}else r.textContent=e,c.textContent="Definition unavailable \u2014 check internet connection.";u()}renderBacklinks(e){if(this.backlinkEl.empty(),this.backlinkEl.style.display="none",!St())return;let s=[...new Map(ve(e).flatMap(({chapter:a,verse:l})=>w0(`${e.book} ${a}:${l}`)).map(a=>[a.filePath,a])).values()];if(!s.length)return;this.backlinkEl.style.display="block";let n=this.backlinkEl.createEl("div");n.style.cssText=`
+          `,b.innerHTML=`<span style="color:${this.PX};font-weight:700;margin-right:5px;">\u{1F4A1}</span>${p.note}`}}}let L=await d1(e);if(!L&&!s){r.textContent=e,c.textContent="Definition unavailable.";return}if(L){let p=L.phonetic?` /${L.phonetic}/`:"";r.textContent=[L.number,L.original,L.transliteration+p].filter(Boolean).join(" \xB7 "),a.appendChild(S1(L.number,L.original,L.transliteration)),a.appendChild(T1(L.number)),M1(c,L.definition),d.innerHTML="",P1(d,L.definition,h)}else r.textContent=e,c.textContent="Definition unavailable \u2014 check internet connection.";u()}renderBacklinks(e){if(this.backlinkEl.empty(),this.backlinkEl.style.display="none",!St())return;let s=[...new Map(ve(e).flatMap(({chapter:a,verse:l})=>w0(`${e.book} ${a}:${l}`)).map(a=>[a.filePath,a])).values()];if(!s.length)return;this.backlinkEl.style.display="block";let n=this.backlinkEl.createEl("div");n.style.cssText=`
       padding:3px 10px; font-size:9px; font-weight:700; letter-spacing:.08em;
       text-transform:uppercase; color:var(--text-muted);
       background:var(--background-secondary);

diff --git a/docs/index.html b/docs/index.html
@@ -234,9 +234,9 @@
 
     <div class="cards">
       <article class="card reveal">
-        <figure class="frame frame-card"><img src="images/research-mode.png" width="520" height="960" loading="lazy" alt="Research mode showing a Strong's search for G5485, grace, with the lexicon entry and 192 matching verses"></figure>
-        <h3>Strong's search</h3>
-        <p>Type <code>G5485</code> or <code>H7225</code> to get the lexicon entry and every verse that uses that word. You can also search in English, Greek or Hebrew, or by meaning (that model downloads once, the first time).</p>
+        <figure class="frame frame-card"><img src="images/strongs-john-6-47.png" width="509" height="889" loading="lazy" alt="The interlinear for John 6:47 with G4100, pisteuo, believe, open to its full lexicon entry"></figure>
+        <h3>Every word, defined</h3>
+        <p>Click a word in the interlinear for its Strong's number, grammar and full lexicon entry. In Research mode, type <code>G4100</code> or <code>H7225</code> to find every verse that uses it. You can also search in English, Greek or Hebrew, or by meaning (that model downloads once, the first time).</p>
       </article>
       <article class="card reveal">
         <figure class="frame frame-card"><img src="images/shot-xrefs.png" width="440" height="760" loading="lazy" alt="The In Your Notes and Cross-references sections of the reading panel"></figure>
@@ -297,8 +297,8 @@
       <article class="choice choice-vault reveal">
         <p class="choice-badge"><i class="pulse"></i>As seen on JoyRaptor's Bible studies</p>
         <h3>The full study vault</h3>
-        <a class="yt" href="https://www.youtube.com/watch?v=iH0io13MDjo&amp;list=PLgxNk3D5DVOfHKKx-UaiHH4urLASes8Lu&amp;index=5" aria-label="Watch a JoyRaptor Bible study that uses ScriptureScribe on YouTube">
-          <img src="https://i.ytimg.com/vi/iH0io13MDjo/hqdefault.jpg" width="480" height="360" loading="lazy" alt="JoyRaptor Bible study video: Did Jesus Cancel The Law And Sabbaths? Part 1">
+        <a class="yt" href="https://www.youtube.com/watch?v=GZtpkShVh4M" aria-label="Watch the ScriptureScribe walkthrough on YouTube">
+          <img src="https://i.ytimg.com/vi/GZtpkShVh4M/hqdefault.jpg" width="480" height="360" loading="lazy" alt="Scripture Scribe: video walkthrough by JoyRaptor">
           <span class="yt-play" aria-hidden="true">▶</span>
         </a>
         <p>The exact setup from the videos: ScriptureScribe and the <strong>Orchard Tree</strong> already installed, every card skin, and the real studies (Seed · Tree · Fruit, Hypergrace, Metanoia, the eschatology orchard) so you can follow along verse by verse.</p>

diff --git a/src/tooltip.ts b/src/tooltip.ts
@@ -287,7 +287,7 @@ export class ScriptureTooltip {
               text-decoration:underline; text-underline-offset:2px;
             ">simple</button>
           </div>
-          <div class="ss-sbdy-simple" style="min-height:8px;"></div>
+          <div class="ss-sbdy-simple" style="min-height:8px; color:#1a1a2e;"></div>
           <div class="ss-sbdy-advanced" style="display:none;"></div>
         </div>
       </div>
@@ -469,7 +469,7 @@ export class ScriptureTooltip {
       };
 
       const bodySimple = sdefEl.createDiv({ cls: "ss-sbdy-simple" });
-      bodySimple.textContent = buildSimpleDefinition(def.definition);
+      buildSimpleDom(bodySimple, def.definition); // dark text: the card is pale in every theme
       
       const bodyAdvanced = sdefEl.createDiv({ cls: "ss-sbdy-advanced" });
       bodyAdvanced.style.display = isDefAdvanced() ? "block" : "none";
@@ -903,12 +903,14 @@ export class ScriptureTooltip {
         speakerWrap.appendChild(makeSpeakerLink(def.number, def.original, def.transliteration));
         speakerWrap.appendChild(makeGlobeLink(def.number));
       }
-      simple.textContent = buildSimpleDefinition(def.definition);
+      // Append below the grammar box (setting textContent here used to erase it), in the card's
+      // own dark text: plain text inherited the theme's light colour, unreadable on the pale card.
+      buildSimpleDom(simple.createDiv(), def.definition);
       advanced.innerHTML = "";
       buildAdvancedDefinition(advanced, def.definition, callbacks);
     } else {
       shdr.textContent   = num;
-      simple.textContent = "Definition unavailable — check internet connection.";
+      simple.createDiv({ text: "Definition unavailable." }).style.color = "#1a1a2e";
     }
 
     this.applyDefMode(simple, advanced, toggle);

diff --git a/src/readingPanel.ts b/src/readingPanel.ts
@@ -1079,10 +1079,10 @@ export class ScriptureReadingPanel extends ItemView {
           border:1px solid ${this.PM};
         `;
         const defHdr = defPanel.createEl("div");
-        defHdr.style.cssText = `font-size:10px;color:${this.P};font-weight:700;margin-bottom:4px;`;
+        defHdr.style.cssText = `font-size:10px;color:${this.PX};font-weight:700;margin-bottom:4px;`;
         defHdr.textContent = `${strongsToFetch} · loading…`;
         const defBody = defPanel.createEl("div");
-        defBody.style.cssText = `font-size:11px;color:${this.PD};line-height:1.6;`;
+        defBody.style.cssText = `font-size:11px;color:${this.PX};line-height:1.6;`;
         defBody.textContent = "";
 
         fetchStrongsDefinition(strongsToFetch).then(def => {

diff --git a/docs/brand/readme-art.html b/docs/brand/readme-art.html
@@ -147,7 +147,7 @@
     <h2>Every word, <em>down to the root.</em></h2>
     <div class="row">
       <div><figure class="frame"><img src="../images/shot-interlinear.png" alt=""></figure><p class="cap">Interlinear Greek · Hebrew · LXX</p></div>
-      <div><figure class="frame"><img src="../images/research-mode.png" alt=""></figure><p class="cap">Strong's search · G5485</p></div>
+      <div><figure class="frame"><img src="../images/strongs-isaiah-28-10.png" alt=""></figure><p class="cap">Full lexicon · G2089</p></div>
       <div><figure class="frame"><img src="../images/shot-xrefs.png" alt=""></figure><p class="cap">Your notes + cross-refs</p></div>
     </div>
   </div>
